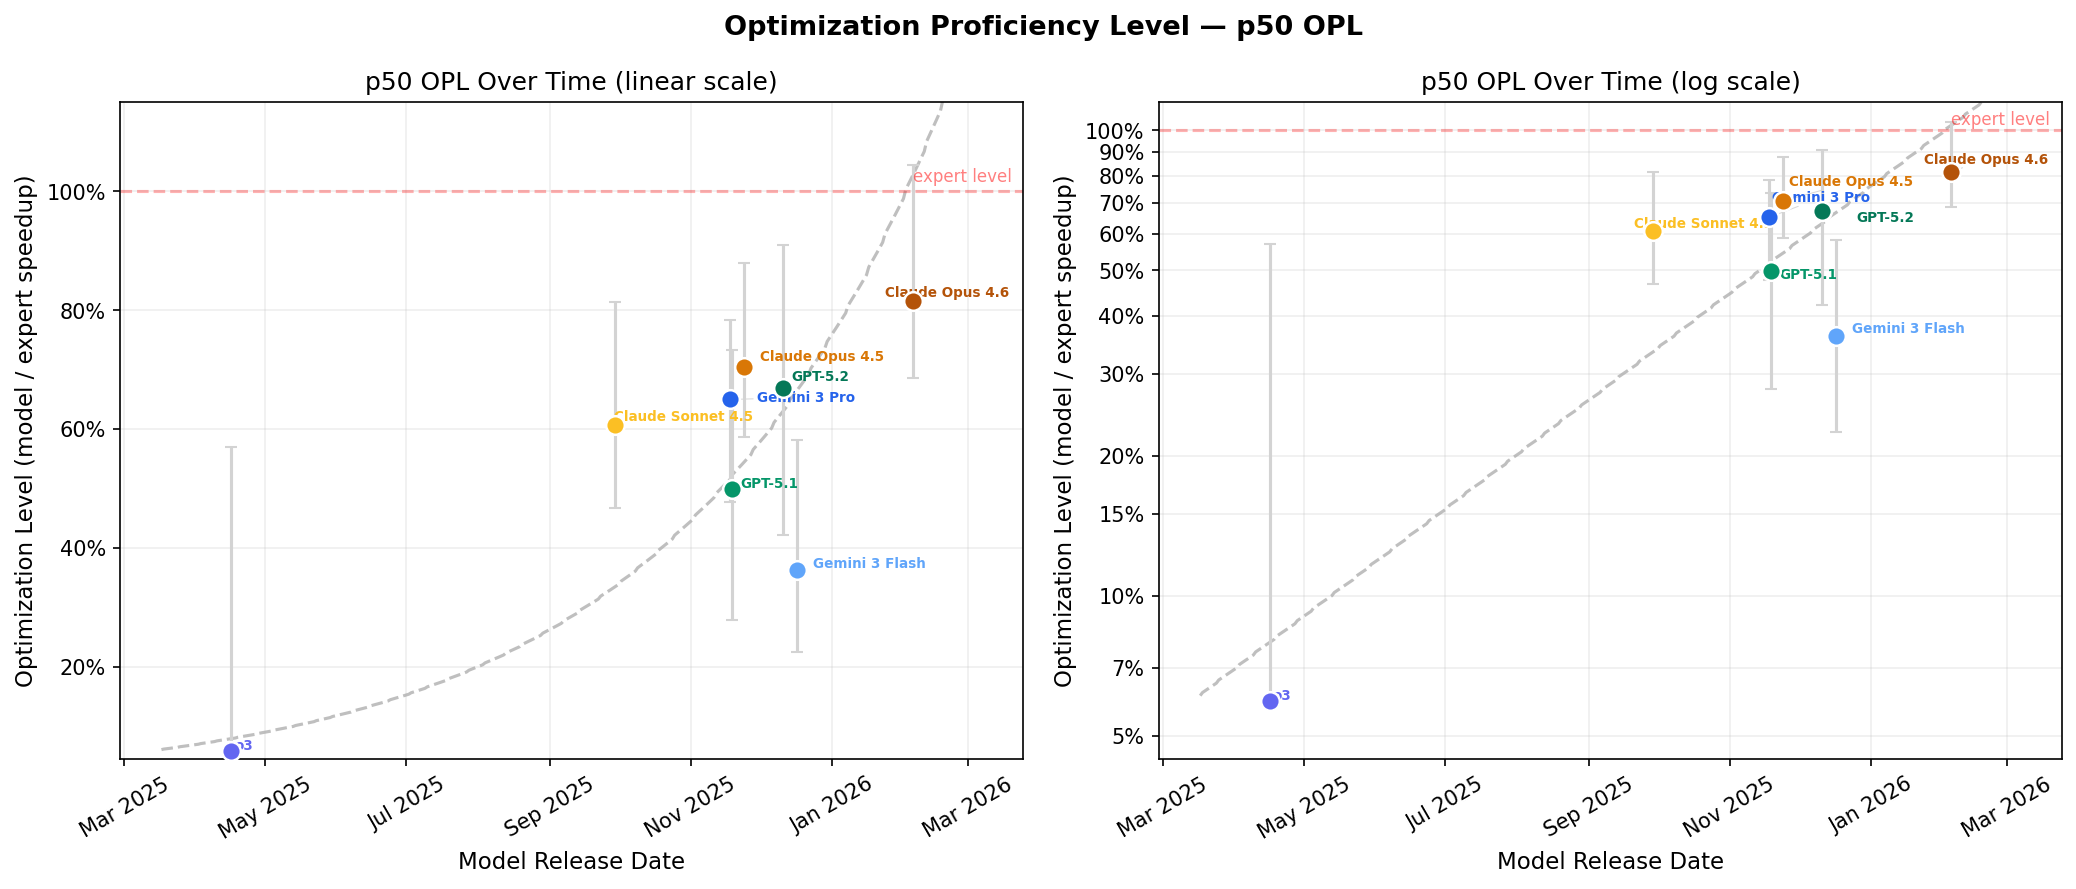
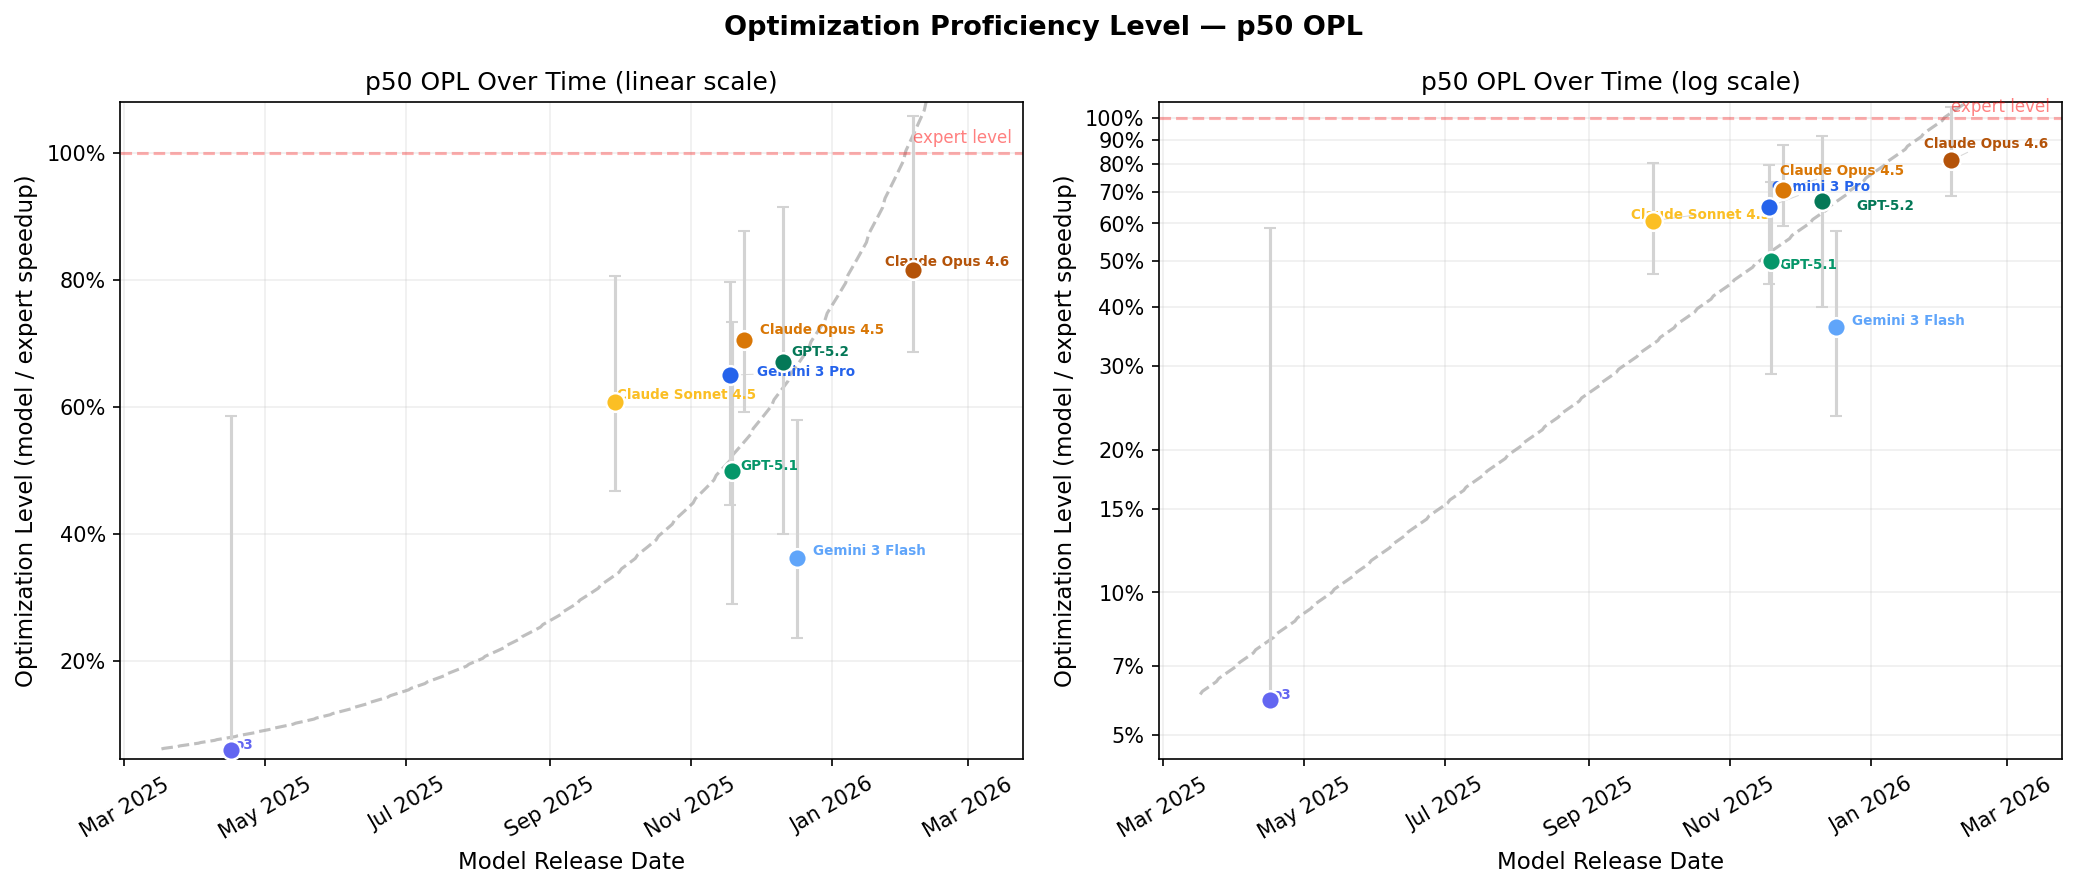
Tighten y-axis to data range, only show expert line when relevant
y-max is now 125% of the highest data point instead of always 100%.
Expert reference line only shown when data reaches >= 70% (close
enough to be meaningful). p80 plot no longer wastes 60% of vertical
space on empty area above the data.

https://claude.ai/code/session_01L5KivAtewHJqMMmsU6mQNJ

diff --git a/analysis/optimization_proficiency.py b/analysis/optimization_proficiency.py
@@ -395,15 +395,18 @@ for metric, metric_label, filename in [
             ax.plot(trend_dt, trend_vals, color='gray', linestyle='--',
                     linewidth=1.5, alpha=0.5, zorder=1)
 
-        # Expert level reference
-        ax.axhline(y=1.0, color="red", linestyle="--", alpha=0.3, linewidth=1.5)
-        ax.text(metric_data[0]["date"], 1.01, "expert level",
-                color="red", fontsize=8, alpha=0.5, va="bottom")
-
-        # Derive y-limits from data: pad below the min, always show expert line
+        # Derive y-limits from data with padding
         y_min = min(d[metric] for d in metric_data)
+        y_max = max(d[metric] for d in metric_data)
         y_lo = y_min * 0.75  # 25% padding below lowest point
-        y_hi = 1.15          # always show expert level (1.0) with room for label
+        y_hi = y_max * 1.25  # 25% padding above highest point
+
+        # Show expert level reference only if it's within or near the data range
+        if y_hi >= 0.7:  # only if top of data is close enough to expert level
+            ax.axhline(y=1.0, color="red", linestyle="--", alpha=0.3, linewidth=1.5)
+            ax.text(metric_data[0]["date"], 1.01, "expert level",
+                    color="red", fontsize=8, alpha=0.5, va="bottom")
+            y_hi = max(y_hi, 1.08)  # ensure expert line is visible
 
         if is_log:
             ax.set_yscale("log", base=2)
